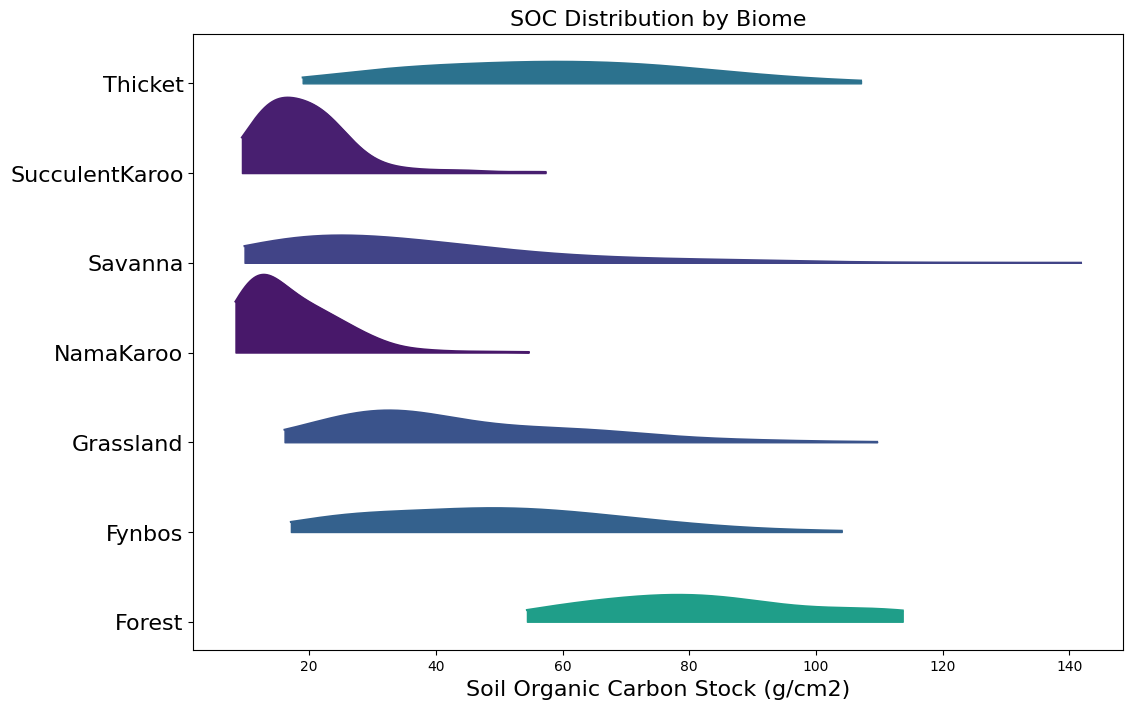
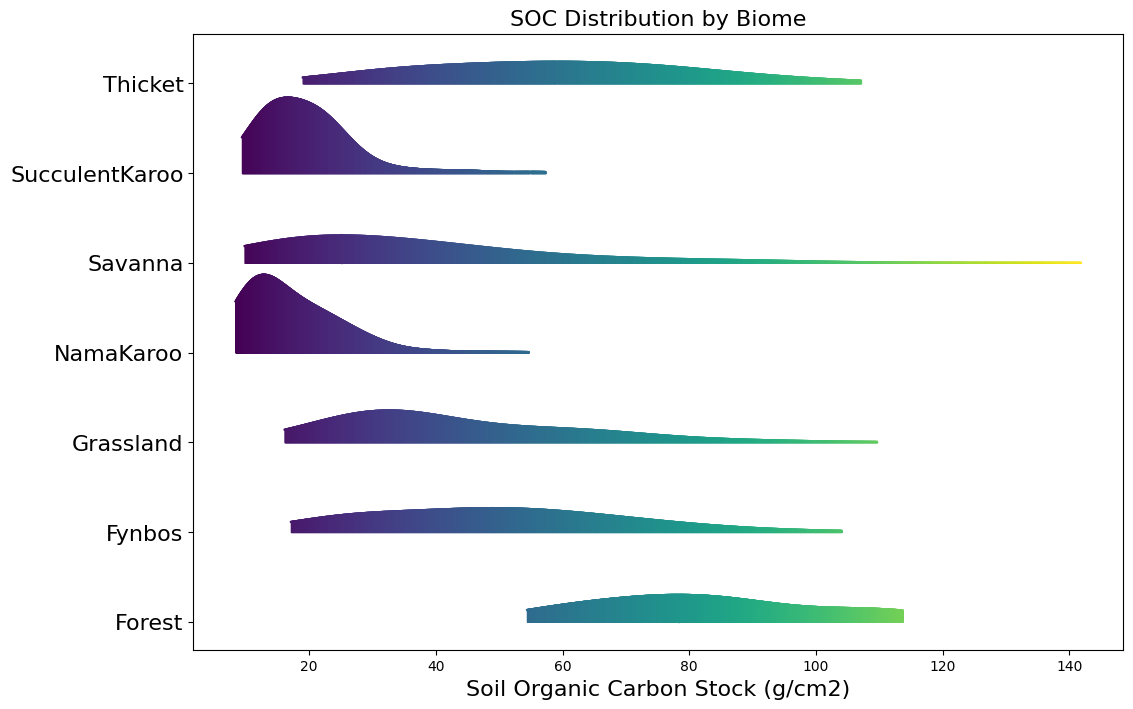
biome plot

diff --git a/MapsTrends/plot_utils.py b/MapsTrends/plot_utils.py
@@ -118,10 +118,16 @@ class plot_utils:
                 kde = gaussian_kde(soc_values, bw_method=0.5)
                 soc_range = np.linspace(soc_values.min(), soc_values.max(), 1000)
                 density = kde(soc_range) * density_scaling_factor
-                color = carbon_cmap(carbon_norm(soc_values.mean()))
-                # Shift the baseline up to the index value for each biome
-                ax.fill_between(soc_range, idx, idx + density, color=color)
-                ax.plot(soc_range, idx + density, color=color)
+                for i in range(len(soc_range) - 1):
+                    x0, x1 = soc_range[i], soc_range[i + 1]
+                    y0, y1 = density[i], density[i + 1]
+                    
+                    # Calculate the color for this segment
+                    color = carbon_cmap(carbon_norm((x0 + x1) / 2))
+                    
+                    # Fill between the baseline (idx) and the density curve
+                    ax.fill_between([x0, x1], idx, [idx + y0, idx + y1], color=color)
+                    ax.plot([x0, x1], [idx + y0, idx + y1], color=color)
 
         ax.set_xlabel('Soil Organic Carbon Stock (g/cm2)', fontsize=16)
         ax.set_title(f'SOC Distribution by Biome', fontsize=16)
